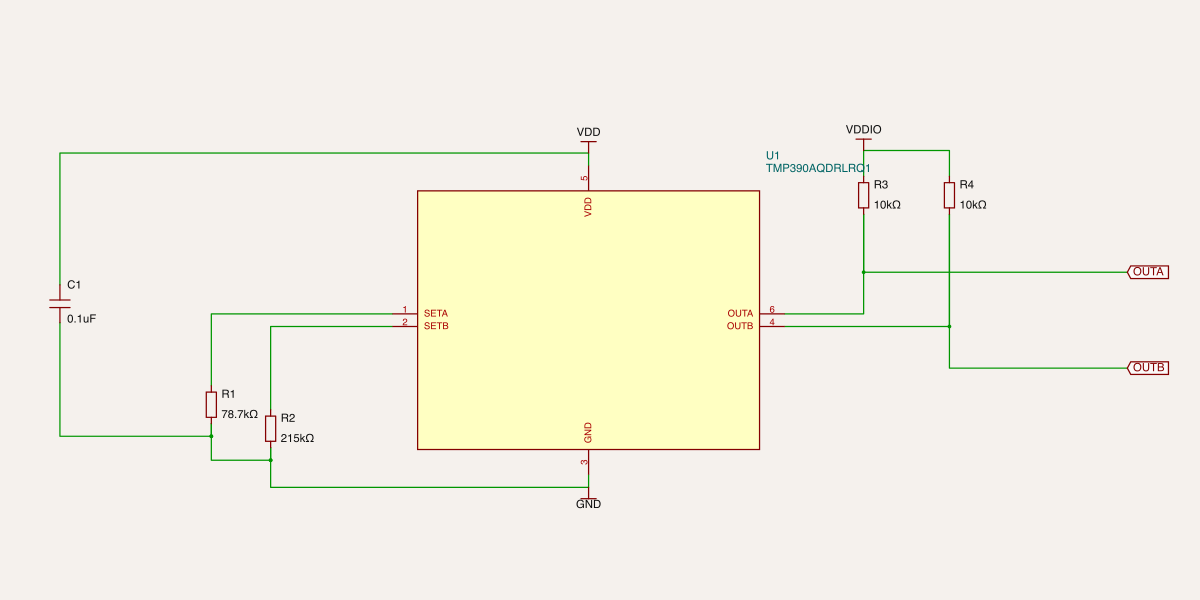
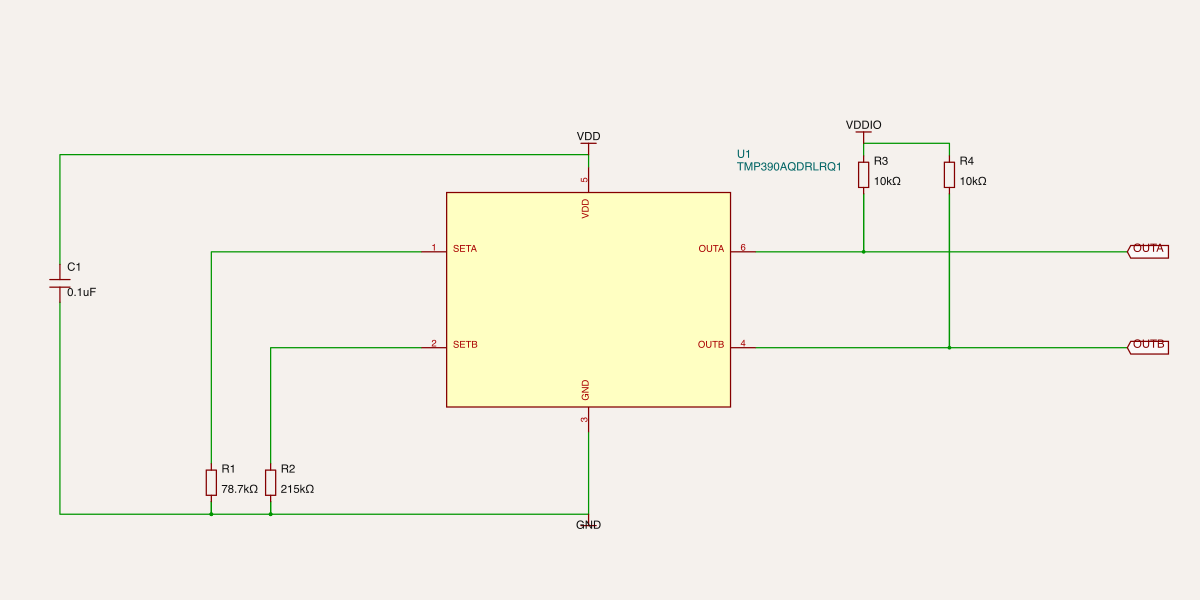
fix: align TMP390 thermal protection schematic

diff --git a/tests/MotorThermalProtection_TMP390.test.tsx b/tests/MotorThermalProtection_TMP390.test.tsx
@@ -120,6 +120,28 @@ test("MotorThermalProtection_TMP390 exposes and connects every interface net", a
     expect(port).toBeDefined();
     return port!.subcircuit_connectivity_map_key;
   };
+  const schematicPortCenter = (
+    componentName: string | null,
+    portName: string,
+  ) => {
+    const sourceComponentId = componentName ? componentId(componentName) : null;
+    const sourcePort = sourcePorts.find(
+      (element) =>
+        element.source_component_id === sourceComponentId &&
+        element.name === portName,
+    );
+    expect(sourcePort).toBeDefined();
+    const schematicPort = circuitJson.find(
+      (element) =>
+        element.type === "schematic_port" &&
+        element.source_port_id === sourcePort!.source_port_id,
+    );
+    expect(schematicPort).toBeDefined();
+    if (!schematicPort || schematicPort.type !== "schematic_port") {
+      throw new Error(`Missing schematic port ${componentName}.${portName}`);
+    }
+    return schematicPort.center;
+  };
   const expectSameNet = (
     expected: [string | null, string],
     ...members: Array<[string | null, string]>
@@ -143,6 +165,25 @@ test("MotorThermalProtection_TMP390 exposes and connects every interface net", a
   expectSameNet(["U1", "SETB"], ["R2", "pin1"]);
   expectSameNet([null, "OUTA"], ["U1", "OUTA"], ["R3", "pin2"]);
   expectSameNet([null, "OUTB"], ["U1", "OUTB"], ["R4", "pin2"]);
+
+  const groundY = schematicPortCenter(null, "GND").y;
+  expect(schematicPortCenter("R1", "pin2").y).toBeCloseTo(groundY);
+  expect(schematicPortCenter("R2", "pin2").y).toBeCloseTo(groundY);
+  expect(schematicPortCenter("U1", "OUTA").y).toBeCloseTo(
+    schematicPortCenter(null, "OUTA").y,
+  );
+  expect(schematicPortCenter("U1", "OUTB").y).toBeCloseTo(
+    schematicPortCenter(null, "OUTB").y,
+  );
+
+  const u1Schematic = circuitJson.find(
+    (element) =>
+      element.type === "schematic_component" &&
+      element.source_component_id === componentId("U1"),
+  );
+  expect(u1Schematic).toMatchObject({
+    size: { width: 4.5, height: 3.4 },
+  });
 
   expect(
     circuitJson.filter(

diff --git a/lib/subcircuits/MotorThermalProtection_TMP390.circuit.tsx b/lib/subcircuits/MotorThermalProtection_TMP390.circuit.tsx
@@ -34,11 +34,17 @@ export const TMP390_FIGURE_8_3_DEFAULTS = {
  * Coordinate transform from the attached Figure 7-1 capture:
  *   schX = (sourcePixelX - 573) * 0.020 mm
  *   schY = (389 - sourcePixelY) * 0.020 mm
- * The source origin is the TMP39x block center at (573, 389) px. Source
- * centers used are C1 (154,376), R1 (274,456), R2 (321,475), R3 (791,290),
+ * The source origin is the TMP39x block center at (573, 389) px. Measured
+ * source centers are C1 (154,376), R1 (274,456), R2 (321,475), R3 (791,290),
  * R4 (859,290), VDD (573,197), VDDIO (824,198), GND (575,549), OUTA
- * (1000,351), and OUTB (1000,427). Refdes are implementation-defined because
- * Figure 7-1 supplies functional labels but no component designators.
+ * (1000,351), and OUTB (1000,427).
+ *
+ * Native-symbol normalization keeps both threshold-resistor lower pins on the
+ * source ground baseline at schY = -3.2 mm, so R1/R2 centers are -2.9 mm.
+ * U1's paired side pins use the source's 1.52 mm vertical separation, and its
+ * box is 4.5 x 3.4 mm to match the requested visual proportion. Refdes are
+ * implementation-defined because Figure 7-1 supplies functional labels but no
+ * component designators.
  */
 export const MotorThermalProtection_TMP390 = (props: SubcircuitProps) => (
   <subcircuit
@@ -81,7 +87,7 @@ export const MotorThermalProtection_TMP390 = (props: SubcircuitProps) => (
       resistance="78.7kohm"
       tolerance="1%"
       schX={-5.98}
-      schY={-1.34}
+      schY={-2.9}
       schOrientation="vertical"
       connections={{ pin2: "net.GND" }}
     />
@@ -90,7 +96,7 @@ export const MotorThermalProtection_TMP390 = (props: SubcircuitProps) => (
       resistance="215kohm"
       tolerance="1%"
       schX={-5.04}
-      schY={-1.72}
+      schY={-2.9}
       schOrientation="vertical"
       connections={{ pin2: "net.GND" }}
     />

diff --git a/lib/chips/TMP390AQDRLRQ1.circuit.tsx b/lib/chips/TMP390AQDRLRQ1.circuit.tsx
@@ -24,8 +24,8 @@ export const TMP390AQDRLRQ1 = (
     manufacturerPartNumber="TMP390AQDRLRQ1"
     datasheetUrl="https://www.ti.com/lit/ds/symlink/tmp390-q1.pdf"
     pinLabels={TMP390AQDRLRQ1_PIN_LABELS}
-    schWidth="5.42mm"
-    schHeight="4.1mm"
+    schWidth="4.5mm"
+    schHeight="3.4mm"
     schPinArrangement={{
       leftSide: {
         direction: "top-to-bottom",
@@ -43,6 +43,10 @@ export const TMP390AQDRLRQ1 = (
         direction: "left-to-right",
         pins: [3],
       },
+    }}
+    schPinStyle={{
+      SETA: { marginBottom: "1.32mm" },
+      OUTB: { marginTop: "1.32mm" },
     }}
     footprint={
       <footprint>
